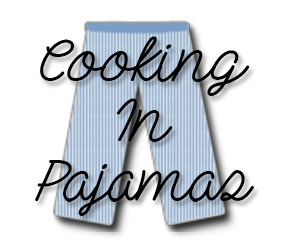
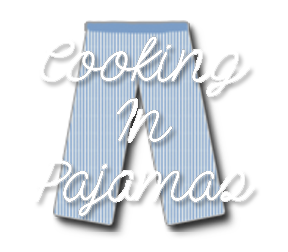
make it hurt eyes less

Changed region(s): [[0.125, 0.1389, 0.875, 0.3889], [0.125, 0.6111, 0.875, 0.8611], [0.4062, 0.3889, 0.5938, 0.5833]]

diff --git a/content/themes/sumninjacode/assets/css/styles.css b/content/themes/sumninjacode/assets/css/styles.css
@@ -119,10 +119,14 @@ i.ion-pound {
     text-transform: capitalize;
 }
 
+body {
+  color: rgba(255, 255, 255, 0.75);
+}
+
 /*LINKS*/
 
 a {
-  color: black;
+  color: rgba(94, 255, 212, 0.75);
 }
 
 a:hover, a:focus {
@@ -140,7 +144,7 @@ h3 a, h3 a,
 h4 a, h4 a,
 h5 a, h5 a,
 h6 a, h6 a {
-  text-shadow: 2px 2px rgba(94, 255, 212, 0.75);
+  text-shadow: 3px 3px rgba(191,95,200, 0.75);
 }
 
 h1 a:hover, h1 a:focus,
@@ -149,6 +153,7 @@ h3 a:hover, h3 a:focus,
 h4 a:hover, h4 a:focus,
 h5 a:hover, h5 a:focus,
 h6 a:hover, h6 a:focus {
+  color: rgba(255, 255, 255, 0.75);
   text-shadow: 3px 3px rgba(191,95,200, 0.75);
   background: transparent;
   padding: 0;
@@ -160,7 +165,7 @@ a#about:hover, a#about:focus {
 }
 
 .navbar-brand:hover, .navbar-brand:focus {
-  color: black;
+  color: rgba(255, 255, 255, 0.75);
   text-shadow: 2px 2px rgba(94, 255, 212, 0.75);
   padding: 15px;
 }
@@ -179,7 +184,7 @@ a.navbar-brand:focus i.ion-pound{
 
 .quote a:hover,
 .quote a:focus {
-  color: black;
+  color: rgba(255, 255, 255, 0.75);
   text-shadow: 1px 1px rgba(94, 255, 212, 0.75);
   padding: 0;
   background: transparent;
@@ -224,65 +229,65 @@ ul.social-fixed {
 
 .social-fixed a.btn {
   background: #ffec82;
-  color: #000;
+  color: rgba(255, 255, 255, 0.75);
   border-radius: 0;
   width: 39px;
 }
 
 .social-fixed a.btn:hover,
 .social-fixed a.btn:focus {
-  background: #fff;
+  background: rgba(255, 255, 255, 0.75);
   color: #92b3d4;
 }
 
 .social-fixed a.btn.comments {
   background: #92b3d4;
-  color: #fff;
+  color: rgba(255, 255, 255, 0.75);
 }
 
 .social-fixed a.btn.comments:hover,
 .social-fixed a.btn.comments:focus {
-  background: #fff;
+  background: rgba(255, 255, 255, 0.75);
   color: #ffec82;
 }
 
 .social-fixed a.btn.twitter {
   background: #55acee;
-  color: #fff;
+  color: rgba(255, 255, 255, 0.75);
 }
 
 .social-fixed a.btn.twitter:hover,
 .social-fixed a.btn.twitter:focus {
-  background: #fff;
+  background: rgba(255, 255, 255, 0.75);
   color: #55acee;
 }
 
 .social-fixed a.btn.facebook {
   background: #3b5998;
-  color: #fff;
+  color: rgba(255, 255, 255, 0.75);
 }
 
 .social-fixed a.btn.facebook:hover,
 .social-fixed a.btn.facebook:focus {
-  background: #fff;
+  background: rgba(255, 255, 255, 0.75);
   color: #3b5998;
 }
 
 .social-fixed a.btn.gplus {
   background: #dd4b39;
-  color: #fff;
+  color: rgba(255, 255, 255, 0.75);
 }
 
 .social-fixed a.btn.gplus:hover,
 .social-fixed a.btn.gplus:focus {
-  background: #fff;
+  background: rgba(255, 255, 255, 0.75);
   color: #dd4b39;
 }
 
 /*GENERAL*/
 body {
   /*background: black;*/
-  background: #F9F9F9FF;
+  background: #1d1d1d;
 }
 
 .content {
@@ -357,7 +362,7 @@ header {
 }
 
 input#mc-embedded-subscribe.button {
-  color: black;
+  color: rgba(255, 255, 255, 0.75);
   font-family: aaarghnormal;
   font-size: 1.25rem;
 }
@@ -472,7 +477,7 @@ time.post-date{
   line-height: 1;
   color: rgba(94, 255, 212, 0.75);
   text-align: center;
-  white-space: nowrap;
+  rgba(255, 255, 255, 0.75)-space: nowrap;
   vertical-align: baseline;
   border-radius: .25em;
   background: #bf62a7
@@ -503,7 +508,7 @@ time.post-date{
 #mc_embed_signup,
 .mailchimp,
 .modal-content{
-  color: #000
+  color: rgba(255, 255, 255, 0.75)
 }
 
 h2.mailchimp.text-center{
@@ -517,7 +522,7 @@ input#mc-embedded-subscribe.button{
 
 input#mc-embedded-subscribe.button: hover,
 input#mc-embedded-subscribe.button: focus{
-  background-color: #000;
+  background-color: rgba(255, 255, 255, 0.75);
   color: rgba(94, 255, 212, 0.75);
   margin: 0
 }
@@ -624,7 +629,7 @@ blockquote p {
 
 .intro .intro-body .brand-heading a: hover,
 .intro .intro-body .brand-heading a: focus{
-    color: #000;
+    color: rgba(255, 255, 255, 0.75);
     text-shadow: 2px 2px rgba(94, 255, 212, 0.75);
     text-decoration: none
 }
@@ -697,7 +702,7 @@ a: focus i.ion-pound, {
 .btn-default: focus{
     border: 1px solid #219ab3;
     outline: 0;
-    color: #000;
+    color: rgba(255, 255, 255, 0.75);
     background-color: #219ab3
 }
 
@@ -1044,7 +1049,7 @@ ul.banner-social-buttons{
 }
 
 #resume .blog-title a{
-    color: #fff
+    color: rgba(255, 255, 255, 0.75)
 }
 
 #resume .main-logo: hover{
@@ -1060,7 +1065,7 @@ ul.banner-social-buttons{
 #resume .blog-tagline{
     font-size: 18px;
     margin-top: 10px;
-    color: #fff;
+    color: rgba(255, 255, 255, 0.75);
     position: relative
 }
 
@@ -1071,19 +1076,19 @@ ul.banner-social-buttons{
     margin: 30px auto -40px auto;
     width: 200px;
     height: 1px;
-    background: #fff;
+    background: rgba(255, 255, 255, 0.75);
     border-radius: 10px;
     bottom: -40px;
     left: 0
 }
 
 ::-moz-selection{
-    background: #fff4d8;
+    background: rgba(255, 255, 255, 0.75)4d8;
     text-shadow: none
 }
 
 ::selection{
-    background: #fff4d8;
+    background: rgba(255, 255, 255, 0.75)4d8;
     text-shadow: none
 }
 
@@ -1172,7 +1177,7 @@ time{
 }
 
 div.small{
-    color: #fff
+    color: rgba(255, 255, 255, 0.75)
 }
 
 #resume ul li{
@@ -1192,8 +1197,8 @@ body{
     margin-top: 0;
     width: 100%;
     height: 100%;
-    color: #fff;
-    background-color: #000;
+    color: rgba(255, 255, 255, 0.75);
+    background-color: rgba(255, 255, 255, 0.75);
     webkit-tap-highlight-color: rgba(255, 255, 255,
         .2)
 }
@@ -1211,7 +1216,7 @@ body{
 .thumbnail{
     padding: 0;
     border-radius: 0;
-    box-shadow: 0 0 5px #ccc, inset 0 0 0 #000
+    box-shadow: 0 0 5px #ccc, inset 0 0 0 rgba(255, 255, 255, 0.75)
 }
 
 // Font Icons // -------------------------
@@ -1261,8 +1266,8 @@ footer{
 }
 
 .error-container h1 small{
-    color: #fff;
-    text-shadow: 2px 2px #000
+    color: rgba(255, 255, 255, 0.75);
+    text-shadow: 2px 2px rgba(255, 255, 255, 0.75)
 }
 
 .search-container{
